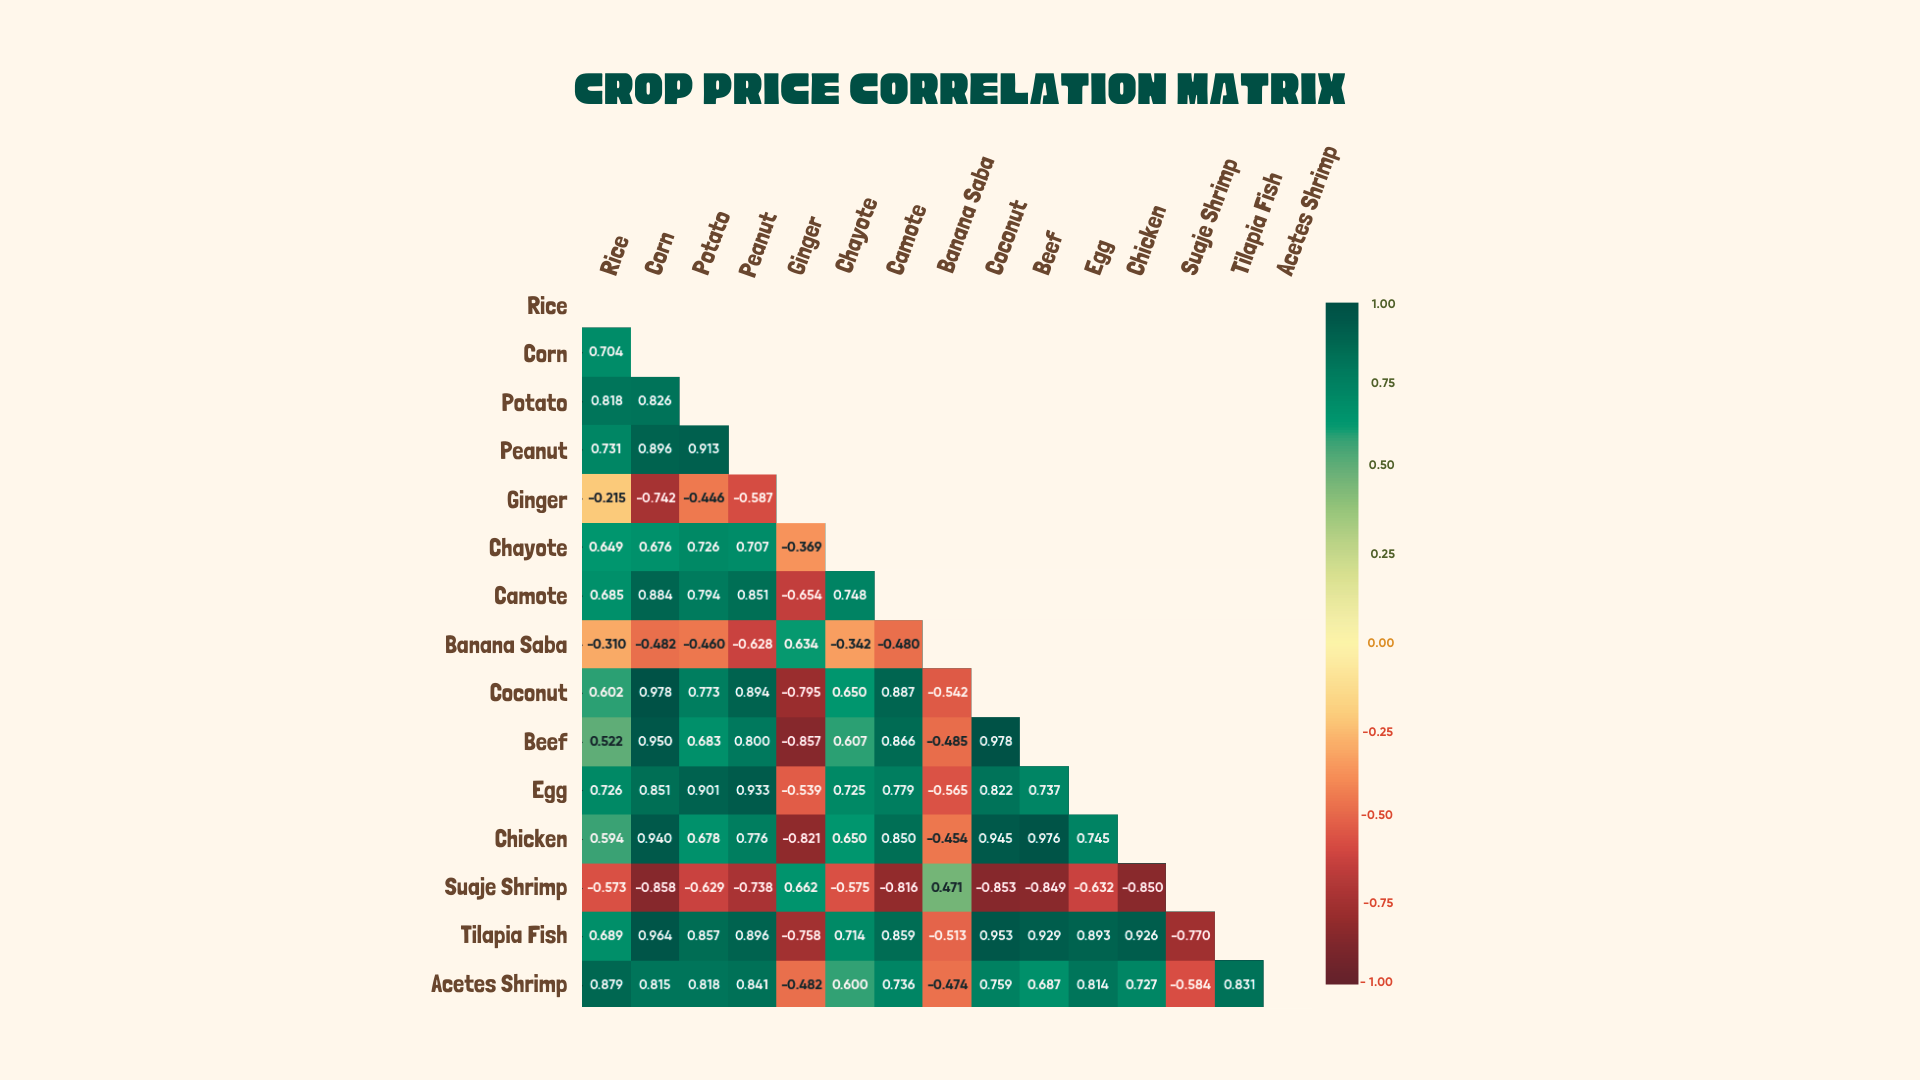
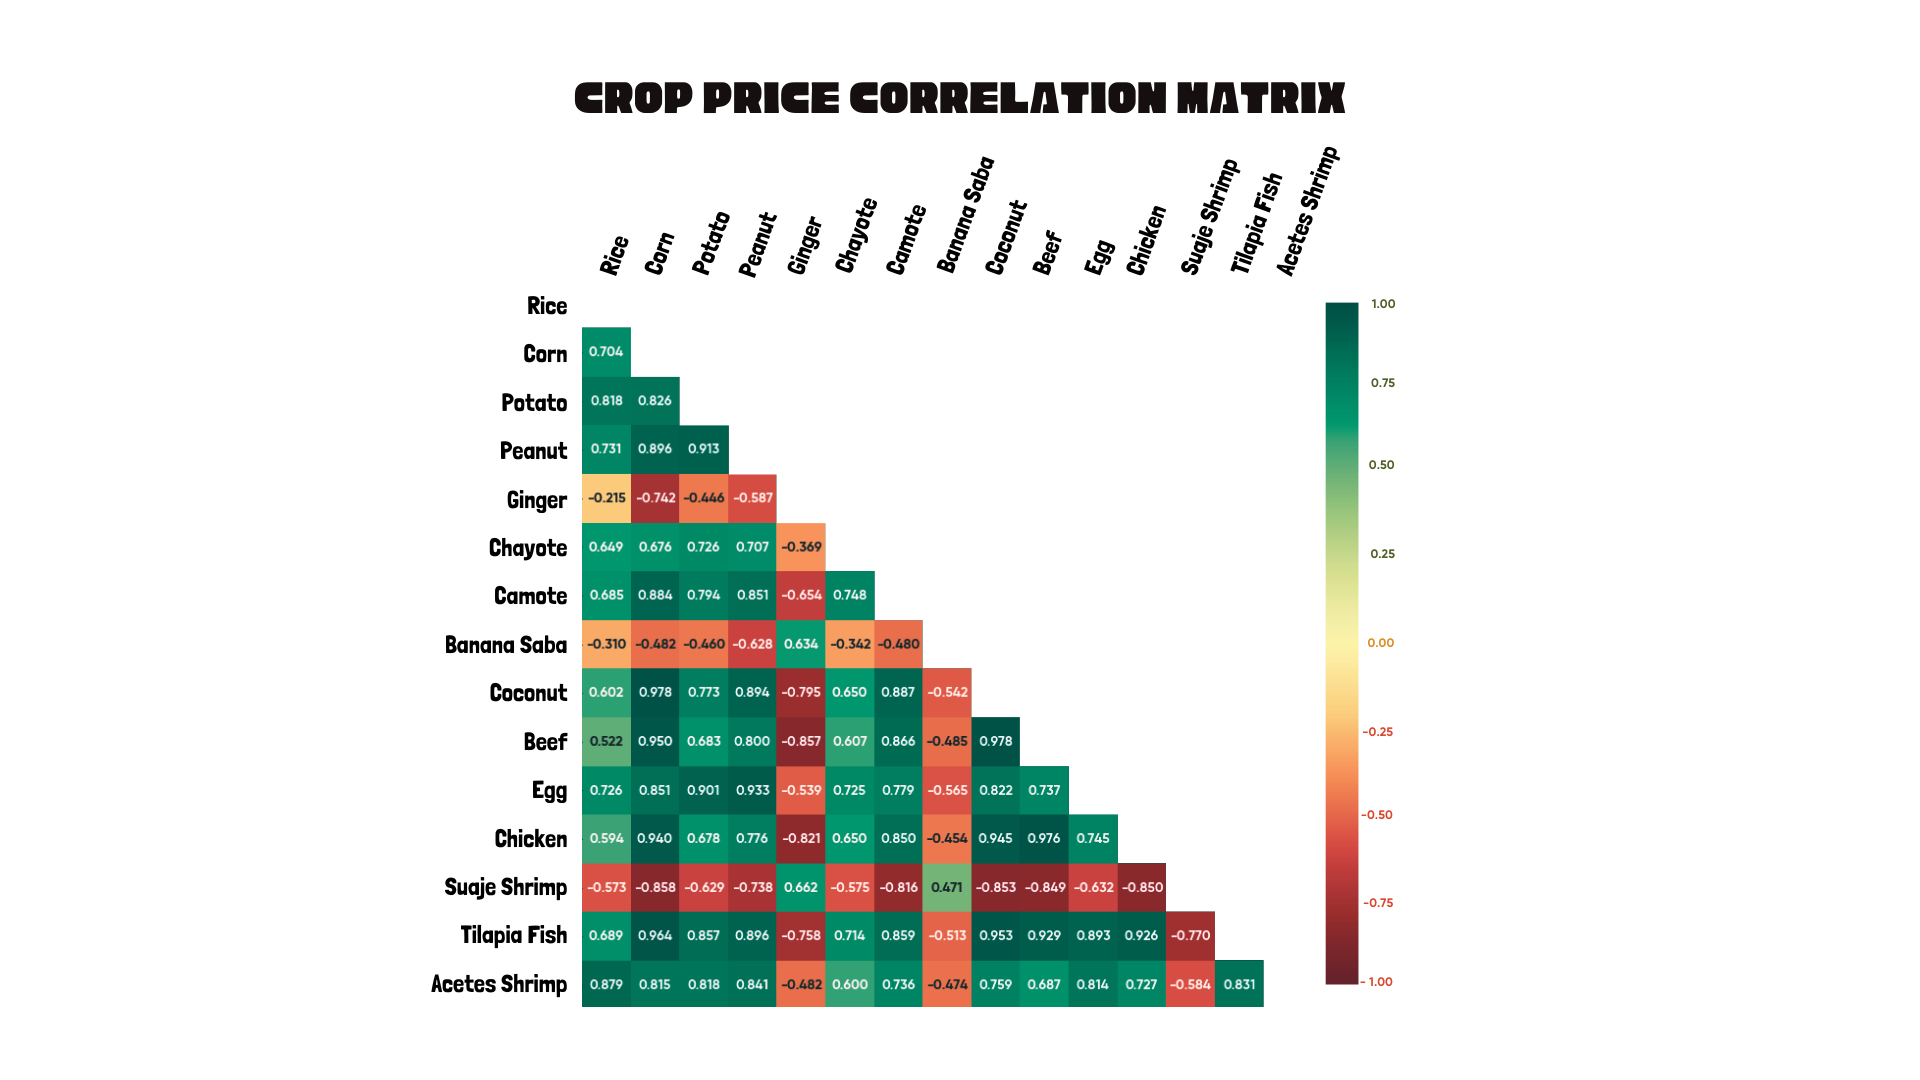
feat: modify pictures and add recommendations

diff --git a/src/lib/Plots.svelte b/src/lib/Plots.svelte
@@ -1,5 +1,6 @@
 <script>
 	import { Carousel, Thumbnails } from 'flowbite-svelte';
+	import CardImage from '$lib/CardImage.svelte';
 
 	const images = [
 		{
@@ -7,19 +8,19 @@
 			title: '<strong>Res. Qn. 1</strong>: Crop price correlation matrix'
 		},
 		{
-			src: '21.png',
+			src: 'zscore1.png',
 			title: '<strong>Res. Qn. 2</strong>: Z-score for animal products'
 		},
 		{
-			src: '22.png',
+			src: 'zscore2.png',
 			title: '<strong>Res. Qn. 2</strong>: Z-score for seafood'
 		},
 		{
-			src: '23.png',
+			src: 'zscore3.png',
 			title: '<strong>Res. Qn. 2</strong>: Z-score for fruit, vegetables, roots'
 		},
 		{
-			src: '24.png',
+			src: 'zscore4.png',
 			title: '<strong>Res. Qn. 2</strong>: Z-score for grains and starches'
 		},
 		{
@@ -32,15 +33,13 @@
 
 	let index = 0;
 	let forward = true;
-
-	let carousel;
 </script>
 
 <div
 	class="border-black border-b-2 p-4 text-center flex flex-col gap-4 justify-center items-center md:py-10"
 	{id}
 >
-	<h1 class="text-center text-2xl md:text-5xl font-bold md:mb-4 font-msans">Plots</h1>
+	<h1 class="text-center text-3xl md:text-5xl font-bold md:mb-4 font-msans">Results</h1>
 
 	<div class="flex flex-col w-full m-auto">
 		<div class="w-full flex flex-col m-auto">
@@ -48,8 +47,8 @@
 				{images}
 				{forward}
 				bind:index
-				imgClass="aspect-video object-center block"
-				class="rounded-md w-full border-4 min-h-[480px] bg-gray-200 flex justify-center items-center"
+				imgClass="object-center block"
+				class="rounded-md border-4 w-full bg-gray-200 flex justify-center items-center"
 			></Carousel>
 			<Thumbnails
 				{images}
@@ -59,6 +58,65 @@
 			/>
 			<div class="rounded h-10 bg-gray-300 p-2 my-2 text-center">
 				{@html images[index].title}
+			</div>
+		</div>
+	</div>
+
+	<div class="md:flex md:flex-row md:justify-between md:items-center md:gap-12">
+		<div class="flex flex-col gap-2 md:gap-6 items-center">
+			<h2 class="text-center font-msans font-bold text-xl md:text-3xl mt-2">
+				Top Products with <i>Positive</i> Correlation
+			</h2>
+			<div class="flex justify-around flex-col gap-2 md:gap-8">
+				<CardImage src="positive1.png">
+					<span slot="heading">Coconut and Corn</span>
+				</CardImage>
+				<CardImage src="positive2.png">
+					<span slot="heading">Beef and Coconut</span>
+				</CardImage>
+				<CardImage src="positive3.png">
+					<span slot="heading">Chicken and Beef</span>
+				</CardImage>
+			</div>
+		</div>
+
+		<div class="flex flex-col gap-2 md:gap-6 items-center">
+			<h2 class="text-center font-msans font-bold text-xl md:text-3xl mt-2">
+				Top Products with <i>Weakest</i> Correlation
+			</h2>
+			<div class="flex justify-around flex-col gap-2 md:gap-8">
+				<CardImage src="weak1.png">
+					<span slot="heading">Rice and Ginger</span>
+					<span slot="desc"></span>
+				</CardImage>
+				<CardImage src="weak2.png">
+					<span slot="heading">Rice and Saba Banana</span>
+					<span slot="desc"></span>
+				</CardImage>
+				<CardImage src="weak3.png">
+					<span slot="heading">Chayote and Saba Banana</span>
+					<span slot="desc"></span>
+				</CardImage>
+			</div>
+		</div>
+
+		<div class="flex flex-col gap-2 md:gap-6 items-center">
+			<h2 class="font-msans font-bold text-xl md:text-3xl mt-2">
+				Top Products with <i>Negative</i> Correlation
+			</h2>
+			<div class="flex justify-around flex-col gap-2 md:gap-8">
+				<CardImage src="negative1.png">
+					<span slot="heading">Suaje Shrimp and Corn</span>
+					<span></span>
+				</CardImage>
+				<CardImage src="negative2.png">
+					<span slot="heading">Suaje Shrimp and Coconut</span>
+					<span slot="desc"></span>
+				</CardImage>
+				<CardImage src="negative3.png">
+					<span slot="heading">Beef and Ginger</span>
+					<span slot="desc"></span>
+				</CardImage>
 			</div>
 		</div>
 	</div>

diff --git a/src/lib/Exploration.svelte b/src/lib/Exploration.svelte
@@ -7,7 +7,7 @@
 	class="border-black border-b-2 p-4 text-center flex flex-col gap-4 justify-center items-center md:py-10"
 	{id}
 >
-	<h1 class="font-msans text-center text-2xl md:text-5xl font-bold md:mb-4">Data Exploration</h1>
+	<h1 class="font-msans text-center text-3xl md:text-5xl font-bold md:mb-4">Data Exploration</h1>
 	<div class="flex flex-col gap-8">
 		<div class="flex justify-around flex-col md:flex-row gap-2 md:gap-8">
 			<CardImage src="preprocess.png">
@@ -20,8 +20,16 @@
 			<CardImage src="visual.png">
 				<span slot="heading">Visualization</span>
 				<span slot="desc"
-					>We used <strong>Matplotlib</strong> and <strong>Seaborn</strong> to generate graphs
-					that showcase relationship within the data.</span
+					>We used <strong
+						><i><a href="https://matplotlib.org/" target="__blank__">Matplotlib</a></i
+						></strong
+					>
+					and
+					<strong
+						><i><a href="https://seaborn.pydata.org/" target="__blank__">Seaborn</a></i
+						></strong
+					>
+					to generate the graphs that showcased relationships within the data.</span
 				>
 			</CardImage>
 		</div>
@@ -30,28 +38,29 @@
 				<span slot="heading">Correlation Test</span>
 				<span slot="desc"
 					>We used the <strong
-						><a
-							href="https://www.scribbr.com/statistics/pearson-correlation-coefficient/"
-							target="__blank__">Pearson Correlation test</a
+						><i
+							><a
+								href="https://www.scribbr.com/statistics/pearson-correlation-coefficient/"
+								target="__blank__">Pearson Correlation test</a
+							></i
 						></strong
-					> to find correlations between two different agricultural products.</span
+					> to find correlations between two different agricultural products. We then used
+					a correlation matrix to visualize correlations of multiple products.</span
 				>
 			</CardImage>
 			<CardImage src="kruskal.png">
 				<span slot="heading">Hypothesis Testing</span>
 				<span slot="desc">
-					We chose key products to represent each category. These key products have
-					notable positive or negative correlation coefficients with Well-Milled Rice.
-					Using the Kruskal-Wallis Test for seasonality, we found out that <strong
-						>NONE
-					</strong>of the products are affected by seasonal trends.
+					We compared key products that represent each category from one another. Using
+					the Kruskal-Wallis Test for seasonality, we found out that <strong>NONE</strong>
+					of the products are affected by seasonal trends.
 				</span>
 			</CardImage>
 		</div>
 	</div>
 	<div class="flex flex-col md:flex-row gap-6">
 		<div
-			class="hover:scale-105 transition translate duration-300 max-w-sm p-6 bg-white border border-gray-200 rounded-lg shadow"
+			class="hover:scale-105 transition translate duration-300 max-w-sm p-6 bg-white border border-gray-300 rounded-lg shadow"
 		>
 			<div>
 				<h5 class="mb-2 text-2xl font-semibold tracking-tight text-gray-900">
@@ -85,7 +94,7 @@
 			</a>
 		</div>
 		<div
-			class="hover:scale-105 transition translate duration-300 max-w-sm p-6 bg-white border border-gray-200 rounded-lg shadow"
+			class="hover:scale-105 transition translate duration-300 max-w-sm p-6 bg-white border border-gray-300 rounded-lg shadow"
 		>
 			<div>
 				<h5 class="mb-2 text-2xl font-semibold tracking-tight text-gray-900">

diff --git a/src/lib/Data.svelte b/src/lib/Data.svelte
@@ -7,30 +7,33 @@
 	class="border-black border-b-2 p-4 text-center flex flex-col gap-4 justify-center items-center md:py-10"
 	{id}
 >
-	<h1 class="font-msans text-center text-2xl md:text-5xl font-bold md:mb-4">The Dataset</h1>
+	<h1 class="font-msans text-center text-3xl md:text-5xl font-bold md:mb-4">Data Collection</h1>
 	<div class="flex flex-col">
 		<div class="flex flex-col gap-2 md:gap-6 md:flex-row">
 			<CardImage src="psa.png">
 				<h1 slot="heading">Source</h1>
 				<p slot="desc">
-					We collected data regarding retail price for various agricutural goods from <a
+					We collected the data regarding retail prices for various agricutural goods from
+					the public database of <a
 						href="https://openstat.psa.gov.ph/PXWeb/pxweb/en/DB/DB__2M__2018/?tablelist=true"
-						target="__blank__"><strong>PSA's website</strong></a
-					>. They were readily available to be downloaded as an excel file.
+						target="__blank__"
+						><strong>the Philippine Statistics Authority (PSA)</strong></a
+					>. They were downloaded as an excel (.xlsx) file.
 				</p>
 			</CardImage>
 			<CardImage src="timespan.png">
 				<h1 slot="heading">Timespan</h1>
 				<p slot="desc">
-					Dataset for retail prices are from <strong>January 2020 to December 2023</strong
-					>.
+					Dataset for monthly retail prices are from <strong>January 2020</strong> to
+					<strong>December 2023</strong>.
 				</p>
 			</CardImage>
 			<CardImage src="count.png">
 				<h1 slot="heading">Count</h1>
 				<p slot="desc">
-					In total, we have 201 products with their retail prices over 52 months, giving
-					the dataset a total count of <strong>10,452</strong> items.
+					In total, we have <strong>201</strong> various products with their retail prices
+					spanning over <strong>52</strong> months, giving the dataset a total count of
+					<strong>10,452</strong> items.
 				</p>
 			</CardImage>
 		</div>

diff --git a/src/lib/Overview.svelte b/src/lib/Overview.svelte
@@ -7,7 +7,7 @@
 	class="border-b-2 border-t-2 border-black flex flex-col justify-center p-4 gap-4 items-center md:py-10"
 	{id}
 >
-	<h1 class="font-msans text-center text-2xl md:text-5xl font-bold md:mb-4">Overview</h1>
+	<h1 class="font-msans text-center text-3xl md:text-5xl font-bold md:mb-4">Overview</h1>
 	<div class="flex flex-col justify-center items-center gap-4 md:gap-8">
 		<div class="flex justify-around flex-col md:flex-row gap-2 md:gap-8">
 			<CardImage src="problem.png">
@@ -15,7 +15,7 @@
 				<p slot="desc">
 					Despite being an agricultural country, there is a <span class="font-">lack</span
 					>
-					of research regarding price changes for agricultural products. In recent years, prices
+					of research regarding price behavior of agricultural products. In recent years, prices
 					of goods have been
 					<strong>continuously rising</strong>, warranting an investigation behind the
 					possible factors that affect it.
@@ -69,11 +69,20 @@
 			</CardImage>
 		</div>
 
-		<CardImage>
+		<CardImage src="py.png">
 			<h1 slot="heading">Action Plan</h1>
 			<p slot="desc">
-				We applied statistical tests such as <strong>SARIMA</strong> to analyze seasonal price
-				trends and correlations between the prices of different products.
+				We used <strong
+					><i><a href="https://www.python.org/" target="__blank__">Python</a></i></strong
+				>
+				and libraries like
+				<strong
+					><i><a target="__blank__" href="https://pandas.pydata.org/">pandas</a></i
+					></strong
+				>
+				in order to help us extract information about our dataset. We also applied statistical
+				methods such as correlation tests to analyze seasonal price trends and correlations between
+				the prices of different products.
 			</p>
 		</CardImage>
 	</div>

diff --git a/src/lib/Navbar.svelte b/src/lib/Navbar.svelte
@@ -89,7 +89,7 @@
 							href="#data"
 							on:click|preventDefault={scrollIntoView}
 							class="border-b-2 block py-2 px-3 md:p-0 text-gray-900 rounded hover:bg-gray-100 md:hover:bg-transparent md:border-0 md:hover:text-blue-700"
-							>Data</a
+							>Collection</a
 						>
 					</li>
 					<li>
@@ -102,10 +102,10 @@
 					</li>
 					<li>
 						<a
-							href="#plots"
+							href="#results"
 							on:click|preventDefault={scrollIntoView}
 							class="border-b-2 block py-2 px-3 md:p-0 text-gray-900 rounded hover:bg-gray-100 md:hover:bg-transparent md:border-0 md:hover:text-blue-700"
-							>Plots</a
+							>Results</a
 						>
 					</li>
 					<li>
@@ -132,14 +132,14 @@
 							>Team</a
 						>
 					</li>
-					<li>
+					<!-- <li>
 						<a
 							href="#ref"
 							on:click|preventDefault={scrollIntoView}
 							class="border-b-2 block py-2 px-3 md:p-0 text-gray-900 rounded hover:bg-gray-100 md:hover:bg-transparent md:border-0 md:hover:text-blue-700"
 							>References</a
 						>
-					</li>
+					</li> -->
 				</ul>
 			</div>
 		{/if}

diff --git a/src/lib/Conclusion.svelte b/src/lib/Conclusion.svelte
@@ -6,7 +6,19 @@
 	class="border-black border-b-2 p-4 text-center flex flex-col gap-4 justify-center items-center md:py-10"
 	{id}
 >
-	<h1 class="font-msans text-center text-2xl md:text-5xl font-bold md:mb-4">Conclusion</h1>
+	<h1 class="font-msans text-center text-3xl md:text-5xl font-bold md:mb-4">Conclusion</h1>
+
+	<div class="max-w-screen-lg">
+		<h2 class="mb-2 md:mb-4 font-msans text-center text-xl md:text-4xl font-bold">
+			Some Recommendations
+		</h2>
+		<p class="text-center font-m text-normal md:text-xl">
+			Due to the sheer number of agricultural products and the amount of possible pairings, we
+			were unable to investigate all of them. Hence, we recommend taking the time to perform
+			correlation studies between <strong>all possible pairs</strong> as well as using data
+			that spans a <strong>longer period</strong>.
+		</p>
+	</div>
 </div>
 
 <style>

diff --git a/src/lib/CardImage.svelte b/src/lib/CardImage.svelte
@@ -13,11 +13,11 @@
 	{/if}
 	<div class="p-5">
 		<div>
-			<h5 class="font-rale mb-2 text-3xl font-bold tracking-tight text-gray-900">
+			<h5 class="font-rale mb-2 text-2xl md:text-3xl font-bold tracking-tight text-gray-900">
 				<slot name="heading" />
 			</h5>
 		</div>
-		<p class="font-m mb-3 font-normal text-gray-700">
+		<p class="font-m mb-3 font-normal md:text-lg text-gray-700">
 			<slot name="desc" />
 		</p>
 	</div>

diff --git a/src/lib/Discussion.svelte b/src/lib/Discussion.svelte
@@ -6,7 +6,7 @@
 	class="border-black border-b-2 p-4 text-center flex flex-col gap-4 justify-center items-center md:py-10"
 	{id}
 >
-	<h1 class="font-msans text-center text-2xl md:text-5xl font-bold md:mb-4">Discussion</h1>
+	<h1 class="font-msans text-center text-3xl md:text-5xl font-bold md:mb-4">Discussion</h1>
 </div>
 
 <style>

diff --git a/src/routes/+page.svelte b/src/routes/+page.svelte
@@ -22,7 +22,7 @@
 
 	<Exploration id="exploration" />
 
-	<Plots id="plots" />
+	<Plots id="results" />
 
 	<Discussion id="disc" />
 
@@ -40,6 +40,6 @@
 		]}
 	/>
 
-	<References id="ref" />
+	<!-- <References id="ref" /> -->
 	<Footer />
 </div>
